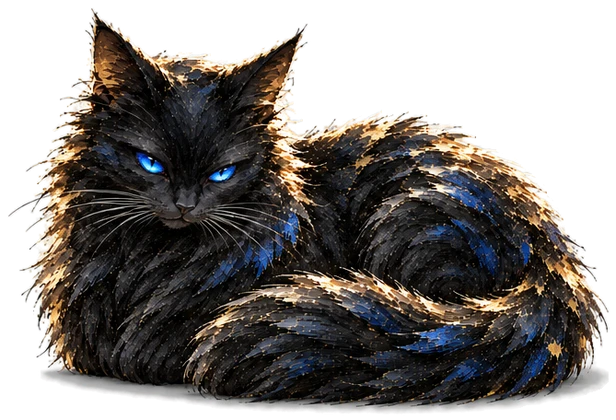
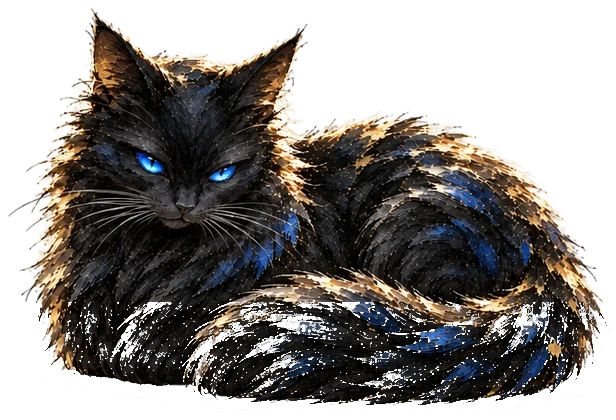
design(cle-studio): the blink closes on the next room's painting and opens onto the same picture; mascot without its plate
- oil blink: the lids carry the room's full painting where its backdrop will stand (decoded before the
  lids meet), name and line set at the left like the welcome
- pet-loaf/-closed/-sit: removed the grey cut-out plate under him (read as a sticker base)

diff --git a/services/cle-studio/src/rooms/rooms.css b/services/cle-studio/src/rooms/rooms.css
@@ -69,7 +69,17 @@ html[data-cle] .sidebar-workspace-header__mark { width: 22px !important; height:
 /* 油画: the painting shows through the paper as a wash, full-bleed, never framed */
 .cle-blink__veil i { position: absolute; left: 0; right: 0; height: 100vh; opacity: 0; mix-blend-mode: luminosity;
   background: var(--cle-blink-wash, none) center 30% / cover no-repeat; filter: blur(2px); }
-.cle-blink[data-style="oil"] .cle-blink__veil i { opacity: .22; }
+.cle-blink[data-style="oil"] .cle-blink__veil i { opacity: 1; mix-blend-mode: normal; filter: none;
+  /* the painting stands where the room's backdrop will stand, so the eye opens onto the same picture */
+  left: auto; right: 0; width: min(100vw, 68vh, 760px); background-position: center 28%; background-size: cover;
+  -webkit-mask-image: linear-gradient(90deg, transparent 0%, rgba(0,0,0,.35) 16%, rgba(0,0,0,.8) 34%, #000 52%);
+  mask-image: linear-gradient(90deg, transparent 0%, rgba(0,0,0,.35) 16%, rgba(0,0,0,.8) 34%, #000 52%); }
+html[data-pinkie-night] .cle-blink[data-style="oil"] .cle-blink__veil i { filter: brightness(.62) saturate(.92); }
+.cle-blink[data-style="oil"] .cle-blink__veil { background: color-mix(in srgb, var(--cle-paper) 96%, transparent); }
+.cle-blink[data-style="oil"] .cle-blink__face { left: clamp(24px, 12vw, 220px); translate: 0 -50%; justify-items: start; text-align: left; width: min(440px, 46vw); }
+.cle-blink[data-style="oil"] .cle-blink__zh { padding-left: 0; font-size: 40px; }
+.cle-blink[data-style="oil"] .cle-blink__line { font: 400 16px/1.6 var(--cle-serif); letter-spacing: .1em; color: var(--cle-ink-2); }
+@media (max-width: 760px) { .cle-blink[data-style="oil"] .cle-blink__veil i { width: 100vw; } .cle-blink[data-style="oil"] .cle-blink__face { left: 16px; top: auto; bottom: 14vh; translate: 0 0; } }
 .cle-blink__veil--top i { top: 0; } .cle-blink__veil--bottom i { bottom: 0; }
 /* the gaze: one hairline where the lids meet */
 .cle-blink__seam { position: absolute; left: 0; right: 0; top: 50%; height: 1px; margin-top: -.5px; opacity: 0;

diff --git a/services/cle-studio/src/rooms/blink.js b/services/cle-studio/src/rooms/blink.js
@@ -42,6 +42,8 @@ export async function blink(room, during) {
   el.style.removeProperty('--cle-blink-wash');
   if (!lineMode) el.style.setProperty('--cle-blink-wash', `url("${roomArt(room.id)}")`);
   el.dataset.style = lineMode ? 'line' : 'oil';
+  // the painting must already be decoded when the lids meet, or they close on an empty frame
+  if (!lineMode) { const img = new Image(); img.src = roomArt(room.id); await Promise.race([img.decode?.().catch(() => {}), wait(260)]); }
   $('.cle-blink__fr').textContent = room.fr;
   $('.cle-blink__zh').textContent = room.zh;
   $('.cle-blink__line').textContent = room.line || '';
